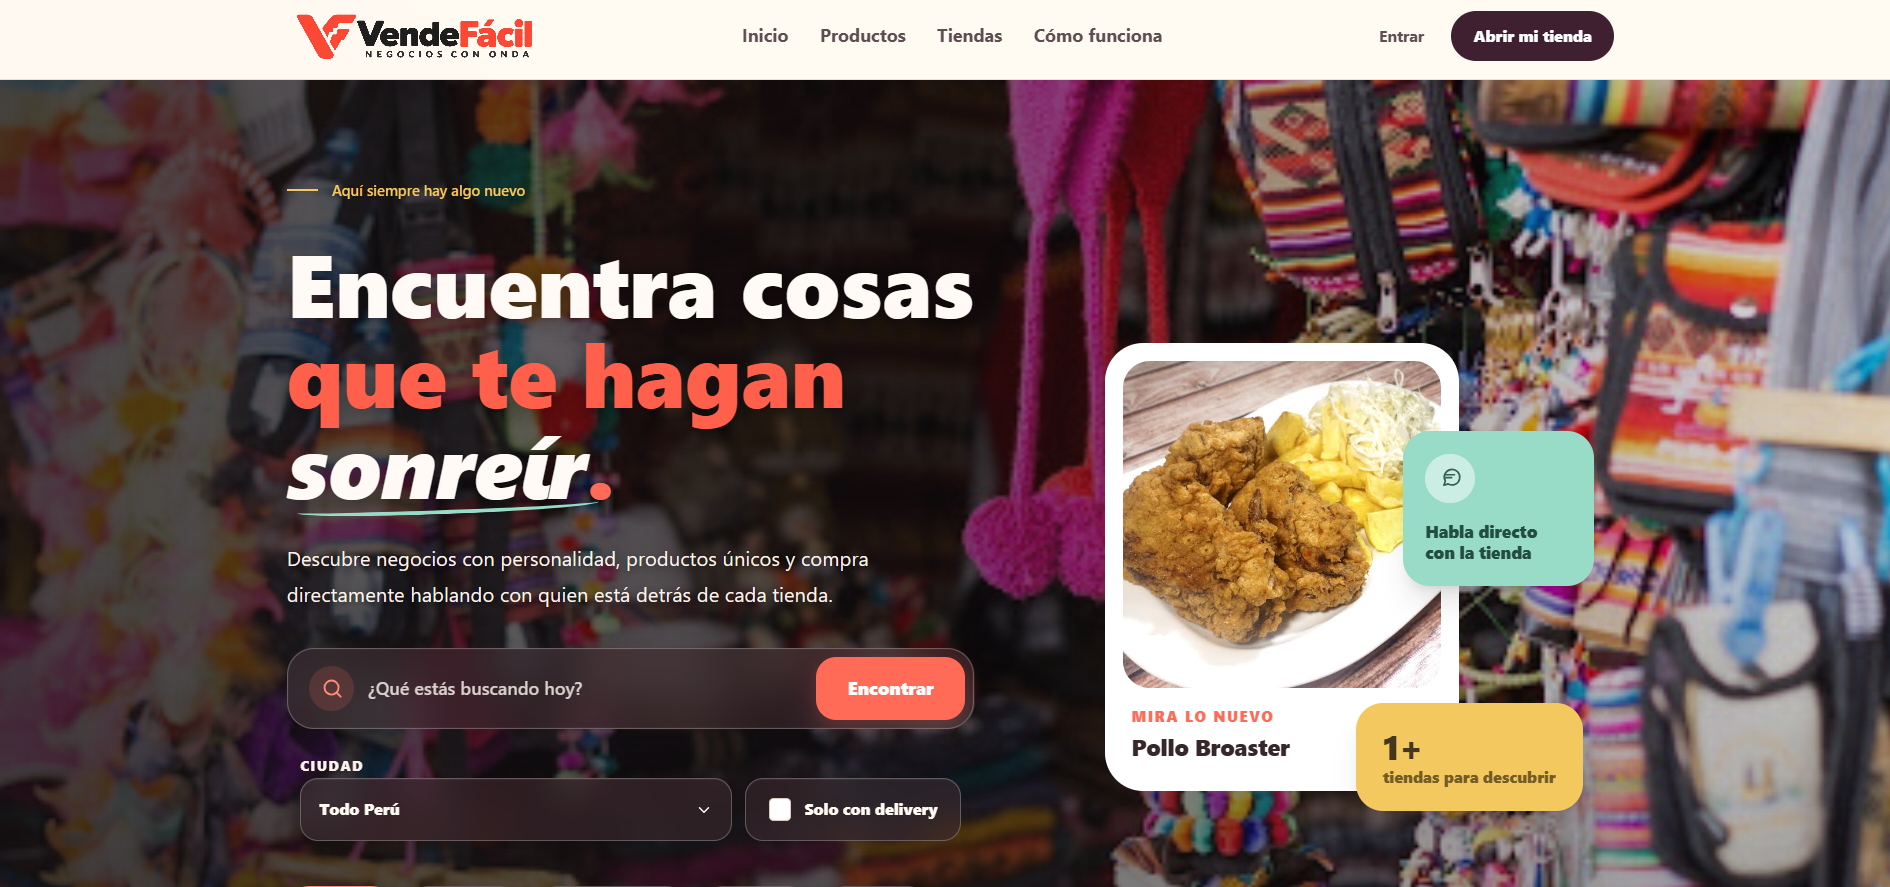
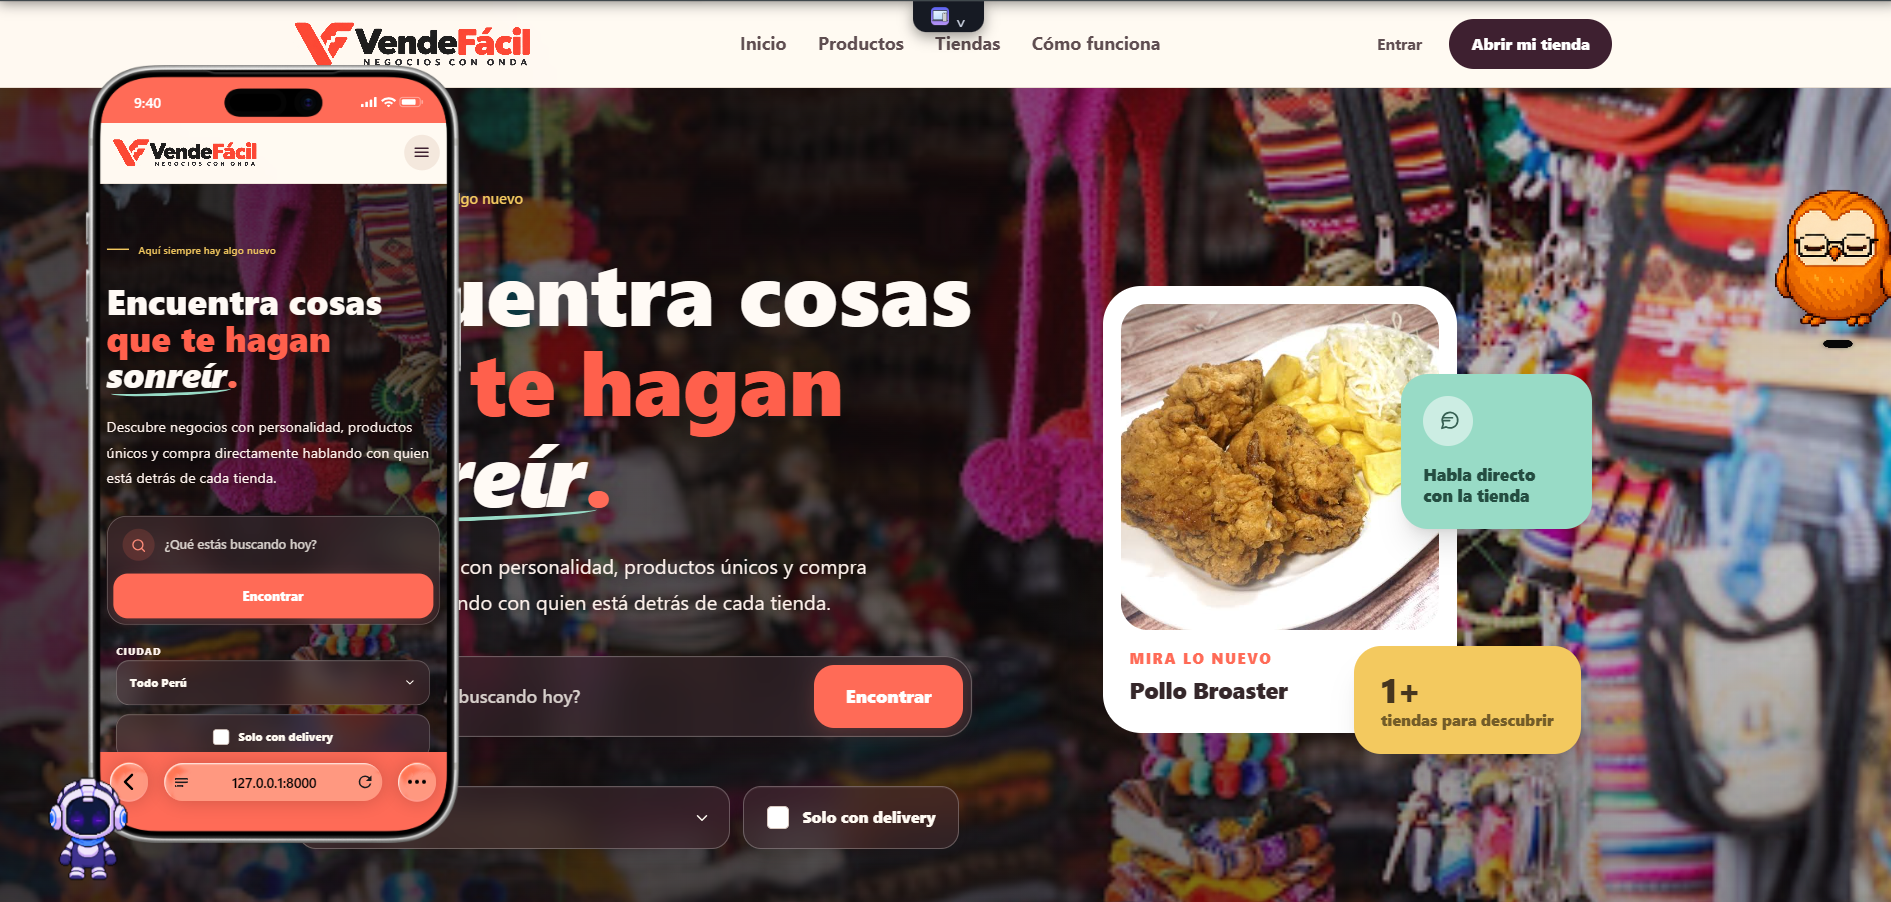
docs: actualizar portada del README con vista de escritorio y movil

diff --git a/README.md b/README.md
@@ -12,7 +12,7 @@
 </p>
 
 <p align="center">
-  <img src="docs/images/vendefacil-home.png" alt="Portada actual de VendeFácil con su nuevo logotipo y fondo de mercado artesanal">
+  <img src="docs/images/vendefacil-home.png" alt="VendeFácil en escritorio y móvil con su portada de mercado artesanal">
 </p>
 
 ## Descripción
